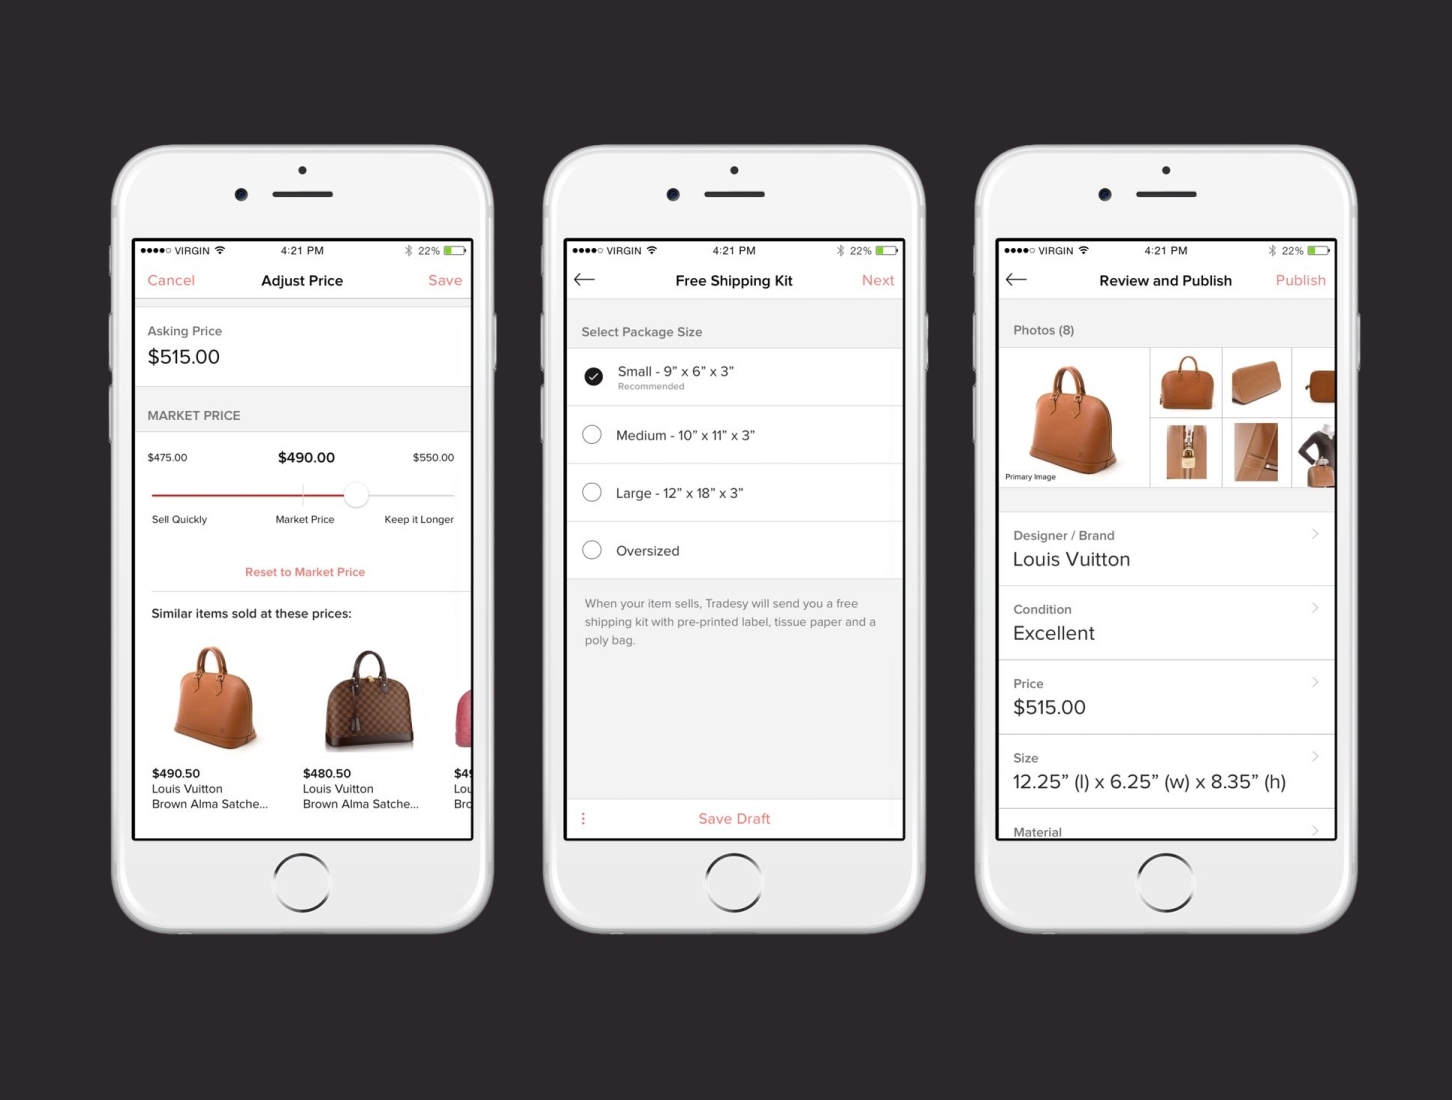
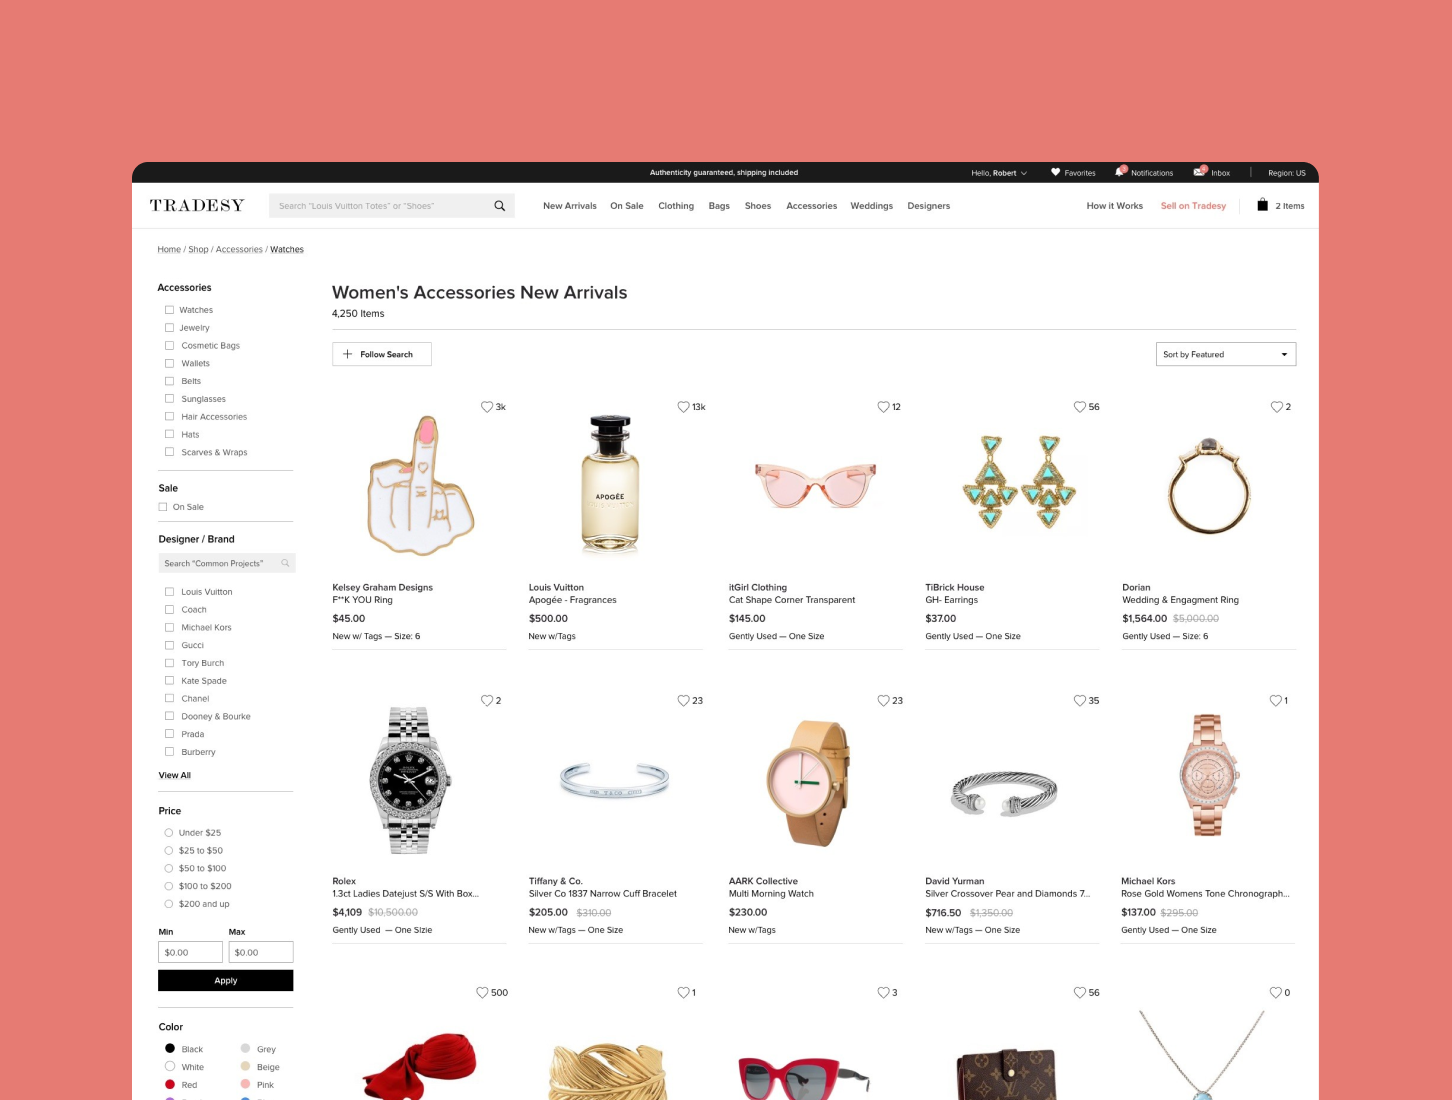
Switch home project list to a split text/thumbnail layout, fix nav scroll-spy, update thumbnails
- Home now renders projects as 40/60 description-left/thumbnail-right rows with
  dividers between each, replacing the swipeable rail
- Nav "Work" link highlights based on an IntersectionObserver watching the
  viewport center, so scrolling (not just clicking) activates it
- Updated Tradesy, Cordwain, and Altruist thumbnails

diff --git a/src/pages/Home.tsx b/src/pages/Home.tsx
@@ -1,21 +1,22 @@
-import { useEffect } from 'react'
-import { useLocation } from 'react-router-dom'
+import { Fragment, useEffect } from 'react'
+import { useLocation, useNavigate } from 'react-router-dom'
 import logoSrc from '../assets/logo.svg'
 import { caseStudies } from '../data'
-import ProjectRail from '../components/ProjectRail'
+import ProjectSplit from '../components/ProjectSplit'
+import { navigateWithViewTransition, projectRowTransitionName } from '../lib/viewTransition'
 
 const projects = caseStudies.map((cs) => ({
   id: cs.id,
   title: cs.title,
   year: cs.metadata['Year'] ?? '',
   role: cs.metadata['Role'] ?? '',
-  description: cs.shortDescription,
   thumbnail: cs.thumbnail,
   video: cs.id === 'share-vc' ? '/projects/share-vc/share-vc-cover.mp4' : undefined,
 }))
 
 export default function Home() {
   const location = useLocation()
+  const navigate = useNavigate()
 
   useEffect(() => {
     if (location.hash === '#work') {
@@ -63,12 +64,20 @@ export default function Home() {
           <p className="text-base font-medium text-[#1a1917] leading-none whitespace-nowrap">
             Select work. 2012—now
           </p>
-          <p className="text-sm text-[#1a1917]/40 leading-none whitespace-nowrap">
-            Swipe to explore
-          </p>
         </div>
 
-        <ProjectRail items={projects} />
+        <div className="flex flex-col gap-8">
+          {projects.map((project, index) => (
+            <Fragment key={project.id}>
+              {index > 0 && <div className="h-px bg-[#1a1917]/15" />}
+              <ProjectSplit
+                project={project}
+                onClick={() => navigateWithViewTransition(() => navigate(`/work/${project.id}`))}
+                viewTransitionName={projectRowTransitionName(project.id)}
+              />
+            </Fragment>
+          ))}
+        </div>
       </div>
     </main>
   )

diff --git a/src/components/ProjectSplit.tsx b/src/components/ProjectSplit.tsx
@@ -1,0 +1,60 @@
+export interface ProjectSplitItem {
+  id: string
+  title: string
+  year: string
+  role: string
+  thumbnail?: string
+  video?: string
+}
+
+export default function ProjectSplit({
+  project,
+  onClick,
+  viewTransitionName,
+}: {
+  project: ProjectSplitItem
+  onClick?: () => void
+  viewTransitionName?: string
+}) {
+  return (
+    <div
+      role="link"
+      tabIndex={0}
+      onClick={onClick}
+      onKeyDown={(e) => { if (e.key === 'Enter') onClick?.() }}
+      className="group grid grid-cols-1 md:grid-cols-[2fr_3fr] gap-6 md:gap-12 items-start cursor-pointer"
+    >
+      <div className="flex flex-col gap-4 order-2 md:order-1">
+        <p className="text-sm font-medium text-[#1a1917]/50 leading-tight">{project.title}</p>
+        <p className="text-sm font-medium text-[#1a1917]/50 leading-tight">
+          {project.role}
+          {project.role && project.year ? ' — ' : ''}
+          {project.year}
+        </p>
+      </div>
+
+      <div
+        className="order-1 md:order-2 bg-[#d9d9d9] overflow-hidden transition-opacity duration-300 ease-out group-hover:opacity-80"
+        style={viewTransitionName ? { viewTransitionName } : undefined}
+      >
+        {project.video ? (
+          <video
+            src={project.video}
+            autoPlay
+            loop
+            muted
+            playsInline
+            className="w-full h-auto block pointer-events-none"
+          />
+        ) : project.thumbnail ? (
+          <img
+            src={project.thumbnail}
+            alt={project.title}
+            draggable={false}
+            className="w-full h-auto block pointer-events-none"
+          />
+        ) : null}
+      </div>
+    </div>
+  )
+}

diff --git a/src/components/Nav.tsx b/src/components/Nav.tsx
@@ -11,6 +11,7 @@ export default function Nav() {
   const [rotation, setRotation] = useState(0)
   const [isSpinning, setIsSpinning] = useState(false)
   const [scrolled, setScrolled] = useState(false)
+  const [workInView, setWorkInView] = useState(false)
   const spinningRef = useRef(false)
   const location = useLocation()
   const navigate = useNavigate()
@@ -19,9 +20,24 @@ export default function Nav() {
 
   const activeTo = NAV_ITEMS.find((item) =>
     item.scrollTargetId
-      ? location.pathname === '/' && location.hash === `#${item.scrollTargetId}`
+      ? location.pathname === '/' && workInView
       : location.pathname.startsWith(item.to)
   )?.to ?? null
+
+  useEffect(() => {
+    if (location.pathname !== '/') {
+      setWorkInView(false)
+      return
+    }
+    const el = document.getElementById('work')
+    if (!el) return
+    const observer = new IntersectionObserver(
+      ([entry]) => setWorkInView(entry.isIntersecting),
+      { rootMargin: '-50% 0px -50% 0px', threshold: 0 }
+    )
+    observer.observe(el)
+    return () => observer.disconnect()
+  }, [location.pathname])
 
   useLayoutEffect(() => {
     const measure = () => {
@@ -100,7 +116,7 @@ export default function Nav() {
                 linkRefs.current[item.to] = el
               }}
               className={linkClass({
-                isActive: location.pathname === '/' && location.hash === `#${item.scrollTargetId}`,
+                isActive: location.pathname === '/' && workInView,
               })}
             >
               {item.label}

diff --git a/src/components/ProjectRail.tsx b/src/components/ProjectRail.tsx
@@ -181,7 +181,7 @@ export default function ProjectRail({ items }: { items: ProjectRailItem[] }) {
                 openProject(item.id)
               }
             }}
-            className="group shrink-0 snap-start w-[160vw] sm:w-[105vw] md:w-[77vw] lg:w-[60vw] flex flex-col gap-3"
+            className="group shrink-0 snap-start w-[160vw] sm:w-[105vw] md:w-[77vw] lg:w-[31vw] flex flex-col gap-3"
           >
             <div
               className="relative w-full bg-[#d9d9d9] transition-opacity duration-300 ease-out group-hover:opacity-80"

diff --git a/src/data/index.ts b/src/data/index.ts
@@ -235,7 +235,7 @@ export const caseStudies: CaseStudy[] = [
     metadata: { 'Role': 'Design, engineering', 'Year': '2016' },
     tags: ['Brand', 'Product Design'],
     year: 2016,
-    thumbnail: '/projects/cordwain/cordwain-01_ws7rfb_c_scale,w_2000.png',
+    thumbnail: '/projects/cordwain/cordwain-cover.png',
     images: [
       '/projects/cordwain/cordwain-01_ws7rfb_c_scale,w_2000.png',
       '/projects/cordwain/cordwain-02_yqyoqe_c_scale,w_2000.png',
